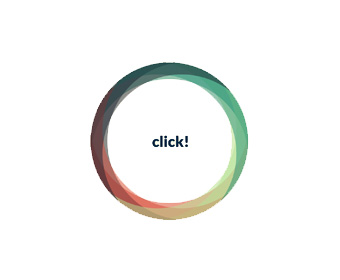
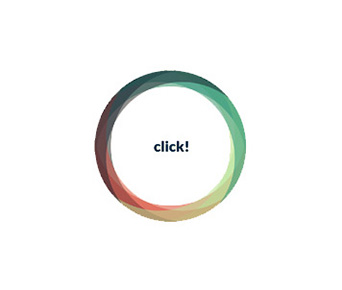
v1

Changed region(s): [[0.2647, 0.2, 0.7353, 0.8], [0.4412, 0.4857, 0.5588, 0.5429]]

diff --git a/index.html b/index.html
@@ -104,7 +104,7 @@
 								<a href="https://jotdown-app.herokuapp.com/"><span class="more-button2"><i class="fa fa-link"></i></span></a>
 							</div>
 							<div class="thumb">
-								<img src="images/jotdown.jpg" alt="JotDown" style="">
+								<img src="images/jotdown.jpg" alt="JotDown" style="position: absolute; right: -60px; bottom: -100px;">
 								<div class="mask"></div>
 							</div>
 						</div>

diff --git a/main.css b/main.css
@@ -1738,6 +1738,7 @@ object {
 .portfolio-item {
   position: relative;
   overflow: hidden;
+  align-content: center;
 }
 .portfolio-item .thumb {
   overflow: hidden;
@@ -2233,3 +2234,9 @@ select.portfolio-filter-mobile {
     position: relative;
     width: 30%;
 }
+
+.center {
+    position: absolute;
+    
+}
+
